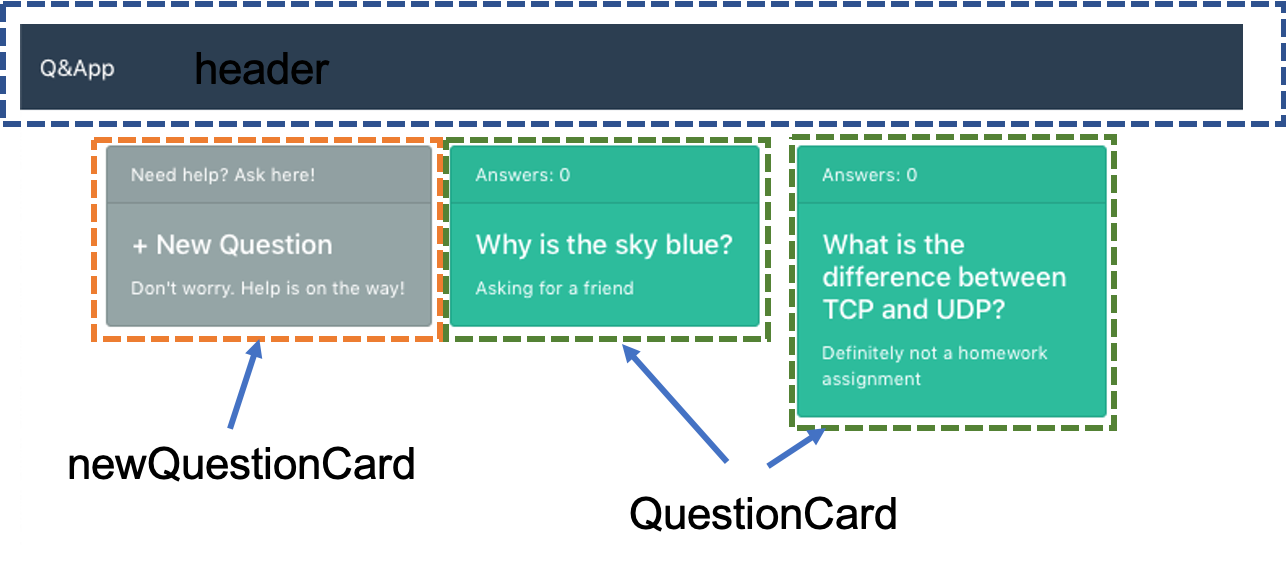
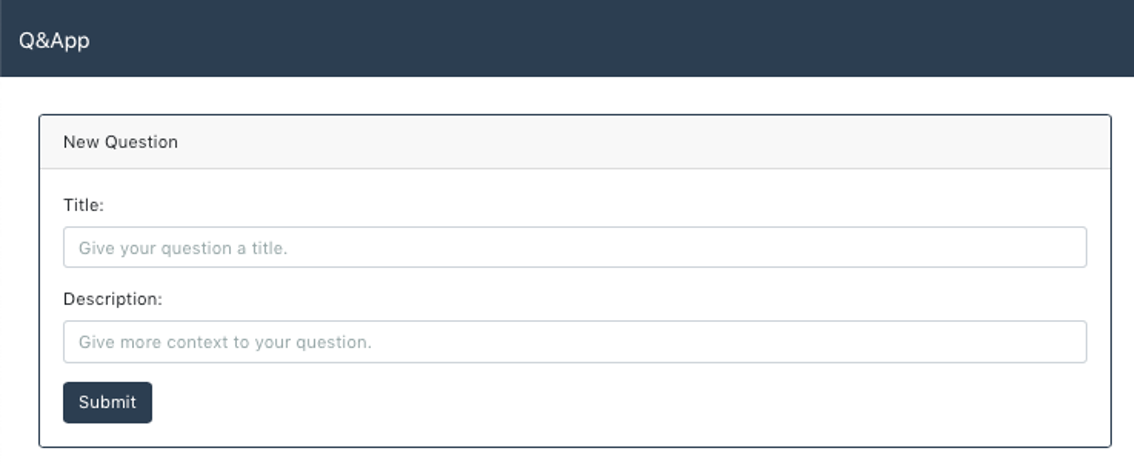
first draft

diff --git a/frontend_src/App.js b/frontend_src/App.js
@@ -3,36 +3,17 @@ import {Route, withRouter} from 'react-router-dom';
 import NavBar from './NavBar/NavBar';
 import Question from './Question/Question';
 import Questions from './Questions/Questions';
-import Callback from './Callback';
 import NewQuestion from './NewQuestion/NewQuestion';
-import SecuredRoute from './SecuredRoute/SecuredRoute';
 
 class App extends Component {
-  constructor(props) {
-    super(props);
-    this.state = {
-      checkingSession: true,
-    }
-  }
-
-  async componentDidMount() {
-    if (this.props.location.pathname === '/callback') {
-      this.setState({checkingSession:false});
-      return;
-    }
-    this.setState({checkingSession:false});
-  }
-
   render() {
     return (
       <div>
         <NavBar/>
         <Route exact path='/' component={Questions}/>
         <Route exact path='/question/:questionId' component={Question}/>
-        <Route exact path='/callback' component={Callback}/>
-        <SecuredRoute path='/new-question'
-                      component={NewQuestion}
-                      checkingSession={this.state.checkingSession} />
+        <Route path='/new-question'
+                      component={NewQuestion} />
       </div>
     );
   }

diff --git a/frontend_src/NewQuestion/NewQuestion.js b/frontend_src/NewQuestion/NewQuestion.js
@@ -1,7 +1,7 @@
 import React, { Component } from 'react';
 import { withRouter } from 'react-router-dom';
 import axios from 'axios';
-import { HOSTNAME } from '../contants'
+import { HOSTNAME } from '../constants'
 
 class NewQuestion extends Component {
   constructor(props) {

diff --git a/frontend_src/Question/Question.js b/frontend_src/Question/Question.js
@@ -2,7 +2,7 @@ import React, {Component} from 'react';
 import axios from 'axios';
 import SubmitAnswer from './SubmitAnswer';
 
-import { HOSTNAME } from '../contants'
+import { HOSTNAME } from '../constants'
 
 class Question extends Component {
   constructor(props) {

diff --git a/frontend_src/index.css b/frontend_src/index.css
@@ -6,7 +6,7 @@ body {
     sans-serif;
   -webkit-font-smoothing: antialiased;
   -moz-osx-font-smoothing: grayscale;
-  /* margin-top: 100px; */
+  margin-top: 100px;
 }
 
 code {
